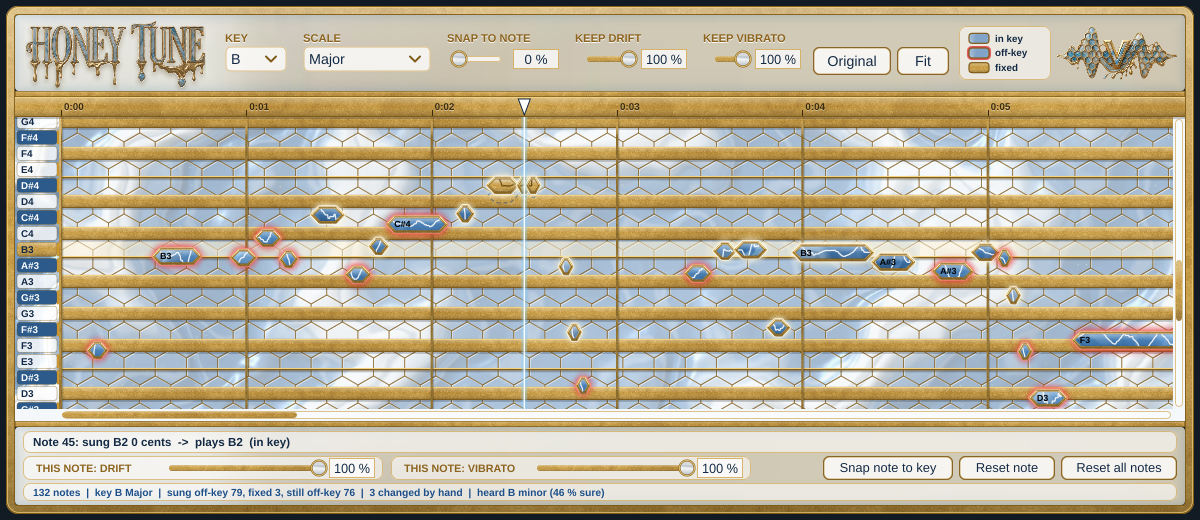
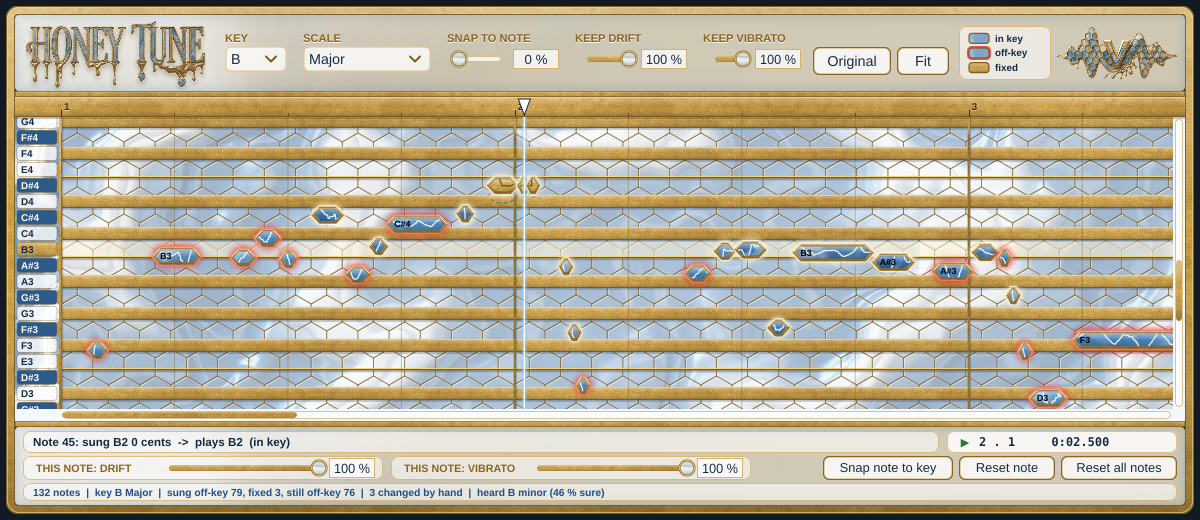
Honey Tune: ruler in the host's bars and beats, synced time readout
Claude-Session: https://claude.ai/code/session_01CehMogZvv8Ni66uUe9tZRt

diff --git a/honeytune/HoneyRoll.cpp b/honeytune/HoneyRoll.cpp
@@ -321,16 +321,37 @@ void HoneyRoll::drawBackground (Graphics& g, Rectangle<float> grid)
                 honeytheme::drawGoldBar (g, { grid.getX(), yOf (m) + static_cast<float> (rowHeight) / 2 - 1.0f, grid.getWidth(), 2.0f }, 0.5f);
         }
 
-        // Second lines: thin raised gold.
-        const double step = pixelsPerSecond > 60 ? 1.0 : pixelsPerSecond > 15 ? 5.0 : 10.0;
-        for (double s = std::ceil (viewStart / step) * step; xOf (s) < grid.getRight(); s += step)
+        // Bar lines (raised gold) and beat lines (fine) from the host's tempo; seconds when it has none.
+        auto raised = [&] (float x, float width)
         {
             Path p;
-            const Rectangle<float> line (xOf (s) - 1.0f, grid.getY(), 2.2f, grid.getHeight());
+            const Rectangle<float> line (x - width * 0.5f, grid.getY(), width, grid.getHeight());
             p.addRectangle (line);
             g.setColour (Colours::black.withAlpha (0.18f));
             g.fillRect (line.translated (1.2f, 0.0f));
             honeytheme::fillGold (g, p, line.withY (0.0f).withHeight (40.0f));
+        };
+        const auto& tl = snap.timeline;
+        if (tl.valid())
+        {
+            const double beatPx = pixelsPerSecond * (tl.lines[1].seconds - tl.lines[0].seconds);
+            for (const auto& l : tl.lines)
+            {
+                const float x = xOf (l.seconds);
+                if (x < grid.getX() - 2.0f || x > grid.getRight() + 2.0f) continue;
+                if (l.beat == 1) raised (x, 2.2f);
+                else if (beatPx > 14.0)
+                {
+                    g.setColour (goldDeep.withAlpha (0.35f));
+                    g.fillRect (x - 0.5f, grid.getY(), 1.0f, grid.getHeight());
+                }
+            }
+        }
+        else
+        {
+            const double step = pixelsPerSecond > 60 ? 1.0 : pixelsPerSecond > 15 ? 5.0 : 10.0;
+            for (double s = std::ceil (viewStart / step) * step; xOf (s) < grid.getRight(); s += step)
+                raised (xOf (s), 2.2f);
         }
     }
 }
@@ -488,19 +509,43 @@ void HoneyRoll::drawRuler (Graphics& g)
     const Rectangle<float> ruler (grid.getX(), 0.0f, grid.getWidth(), kRulerHeight);
     Graphics::ScopedSaveState save (g);
     g.reduceClipRegion (ruler.toNearestInt());
-    const double step = pixelsPerSecond > 60 ? 1.0 : pixelsPerSecond > 15 ? 5.0 : 10.0;
     g.setFont (FontOptions (11.0f, Font::bold));
-    for (double s = std::ceil (viewStart / step) * step; xOf (s) < ruler.getRight(); s += step)
+    auto label = [&g] (float x, const String& text)
     {
-        const float x = xOf (s);
         g.setColour (Colour (0xff3a2a0a));
         g.drawVerticalLine (roundToInt (x), kRulerHeight - 7.0f, kRulerHeight - 1.0f);
-        const int secs = roundToInt (s);
-        const auto label = String (secs / 60) + ":" + String (secs % 60).paddedLeft ('0', 2);
         g.setColour (Colours::white.withAlpha (0.45f));
-        g.drawText (label, Rectangle<float> (x + 3, 4, 40, 14), Justification::centredLeft);
+        g.drawText (text, Rectangle<float> (x + 3, 4, 40, 14), Justification::centredLeft);
         g.setColour (Colour (0xff3a2a0a));
-        g.drawText (label, Rectangle<float> (x + 3, 3, 40, 14), Justification::centredLeft);
+        g.drawText (text, Rectangle<float> (x + 3, 3, 40, 14), Justification::centredLeft);
+    };
+    const auto& tl = snap.timeline;
+    if (tl.valid())
+    {
+        // Bar numbers like the host's ruler (every 2nd / 4th ... bar when they'd crowd), beat ticks between.
+        double barPx = 1.0e9;
+        for (size_t i = 1; i < tl.lines.size(); ++i)
+            if (tl.lines[i].beat == 1) { for (size_t j = i; j-- > 0;) if (tl.lines[j].beat == 1) { barPx = (tl.lines[i].seconds - tl.lines[j].seconds) * pixelsPerSecond; break; } break; }
+        int every = 1;
+        while (barPx * every < 34.0 && every < 64) every *= 2;
+        for (const auto& l : tl.lines)
+        {
+            const float x = xOf (l.seconds);
+            if (x < ruler.getX() - 40.0f || x > ruler.getRight()) continue;
+            if (l.beat == 1 && (l.bar - 1) % every == 0) label (x, String (l.bar));
+            else if (l.beat != 1 && barPx > 60.0)
+            {
+                g.setColour (Colour (0xff3a2a0a).withAlpha (0.6f));
+                g.drawVerticalLine (roundToInt (x), kRulerHeight - 4.0f, kRulerHeight - 1.0f);
+            }
+        }
+        return;
+    }
+    const double step = pixelsPerSecond > 60 ? 1.0 : pixelsPerSecond > 15 ? 5.0 : 10.0;
+    for (double s = std::ceil (viewStart / step) * step; xOf (s) < ruler.getRight(); s += step)
+    {
+        const int secs = roundToInt (s + tl.songOffset);
+        label (xOf (s), String (secs / 60) + ":" + String (secs % 60).paddedLeft ('0', 2));
     }
 }
 

diff --git a/honeytune/HoneyTunePlugin.cpp b/honeytune/HoneyTunePlugin.cpp
@@ -9,6 +9,8 @@
 
 #include "HoneyPanel.h"
 
+#include <ARA_Library/Utilities/ARATimelineConversion.h>
+
 #include <map>
 #include <memory>
 
@@ -566,7 +568,41 @@ private:
     honeyui::Snapshot snapshot() override
     {
         if (dc == nullptr || state == nullptr) return {};
-        return dc->snapshot (state);
+        auto snap = dc->snapshot (state);
+        for (auto* src : dc->sources())
+            if (src->state == state)
+                for (auto* mod : src->getAudioModifications())
+                    if (! mod->getPlaybackRegions().empty())
+                    {
+                        snap.timeline = buildTimeline (mod->getPlaybackRegions().front(), snap.seconds);
+                        return snap;
+                    }
+        return snap;
+    }
+
+    /** The song's bars and beats over this clip, from the host's tempo map and time signatures. */
+    static honeyui::Timeline buildTimeline (ARAPlaybackRegion* region, double clipSeconds)
+    {
+        honeyui::Timeline tl;
+        tl.songOffset = region->getStartInPlaybackTime() - region->getStartInAudioModificationTime();
+        auto* sequence = region->getRegionSequence();
+        auto* context = sequence != nullptr ? sequence->getMusicalContext() : nullptr;
+        if (context == nullptr) return tl;
+        const ARA::PlugIn::HostContentReader<ARA::kARAContentTypeTempoEntries> tempoReader (context);
+        const ARA::PlugIn::HostContentReader<ARA::kARAContentTypeBarSignatures> barReader (context);
+        if (! tempoReader || ! barReader) return tl;
+        const ARA::TempoConverter<decltype (tempoReader)> tempo (tempoReader);
+        const ARA::BarSignaturesConverter<decltype (barReader)> bars (barReader);
+        const auto q0 = tempo.getQuarterForTime (tl.songOffset - 2.0), q1 = tempo.getQuarterForTime (tl.songOffset + clipSeconds + 2.0);
+        for (int b = bars.getBarIndexForQuarter (q0); b <= bars.getBarIndexForQuarter (q1) && tl.lines.size() < 50000; ++b)
+        {
+            const auto barStart = bars.getQuarterForBarIndex (b);
+            const auto sig = bars.getBarSignatureForQuarter (barStart);
+            const double quartersPerBeat = 4.0 / std::max (1, (int) sig.denominator);
+            for (int k = 0; k < std::max (1, (int) sig.numerator); ++k)
+                tl.lines.push_back ({ tempo.getTimeForQuarter (barStart + k * quartersPerBeat) - tl.songOffset, b >= 0 ? b + 1 : b, k + 1 });
+        }
+        return tl;
     }
     Settings getSettings() override { return dc != nullptr ? dc->getSettings() : Settings {}; }
     void setSettings (const Settings& s) override { if (dc != nullptr) dc->setSettings (s); }
@@ -609,8 +645,9 @@ private:
         if (state == nullptr || ! state->alive) { state = nullptr; pickSource ({}); panel.refresh(); return; }
         // Playhead: where the host is playing in this clip (hidden once playback stops).
         const bool playing = Time::getMillisecondCounter() - state->playStamp.load() < 250;
-        panel.roll.setPlayhead (playing ? state->playPosition.load() / std::max (1.0, state->sampleRate) : -1.0);
-        if (state->status != 2 && ++slowTicks % 15 == 0) panel.refresh();
+        panel.setPlayhead (playing ? state->playPosition.load() / std::max (1.0, state->sampleRate) : -1.0);
+        // Now and then: the status while listening, and the bars / beats if the song's tempo changed.
+        if (++slowTicks % (state->status != 2 ? 15 : 45) == 0 && ! panel.roll.isMouseButtonDown()) panel.refresh();
     }
 
     HoneyDocumentController* dc = nullptr;

diff --git a/honeytune/HoneyPanel.cpp b/honeytune/HoneyPanel.cpp
@@ -150,6 +150,16 @@ void HoneyPanel::refresh()
     repaint();
 }
 
+void HoneyPanel::setPlayhead (double seconds)
+{
+    roll.setPlayhead (seconds);
+    if (seconds >= 0.0 && std::abs (seconds - lastPosition) > 0.0005)
+    {
+        lastPosition = seconds;
+        repaint (readoutArea.toNearestInt());
+    }
+}
+
 void HoneyPanel::applySettings()
 {
     if (model == nullptr) return;
@@ -258,6 +268,19 @@ void HoneyPanel::paint (Graphics& g)
     if (const auto img = logo(); img.isValid())
         g.drawImage (img, logoArea, RectanglePlacement::centred);
 
+    // Time readout (bars . beats like the host, and the song time), synced to playback.
+    {
+        const bool playing = roll.getPlayhead() >= 0.0;
+        drawGlass (g, readoutArea, 7.0f, 0.85f);
+        g.setColour (playing ? Colour (0xff1e7d32) : Colour (0xff8d641f));
+        g.setFont (FontOptions (13.0f, Font::bold));
+        g.drawText (playing ? String (CharPointer_UTF8 ("\xe2\x96\xb6")) : String (CharPointer_UTF8 ("\xe2\x96\xa0")),
+                    readoutArea.withWidth (24.0f).translated (6.0f, 0.0f), Justification::centred);
+        g.setColour (ink);
+        g.setFont (FontOptions (Font::getDefaultMonospacedFontName(), 14.0f, Font::bold));
+        g.drawText (roll.getSnapshot().timeline.describe (lastPosition), readoutArea.withTrimmedLeft (32.0f), Justification::centredLeft);
+    }
+
     // Bottom text: the selected note, then the status line.
     g.setColour (ink);
     g.setFont (FontOptions (13.0f, Font::bold));
@@ -347,6 +370,8 @@ void HoneyPanel::resized()
     // Bottom: note info line, then per-note sliders and buttons, then the status line.
     auto bottom = bottomBar.reduced (8.0f, 4.0f);
     noteInfoArea = bottom.removeFromTop (22.0f);
+    readoutArea = noteInfoArea.removeFromRight (230.0f);
+    noteInfoArea.removeFromRight (8.0f);
     statusArea = bottom.removeFromBottom (18.0f);
     cards.push_back (noteInfoArea);
     cards.push_back (statusArea);

diff --git a/honeytune/HoneyView.h b/honeytune/HoneyView.h
@@ -3,6 +3,7 @@
 #include "vox/HoneyTune.h"
 
 #include <cmath>
+#include <cstdio>
 #include <memory>
 #include <string>
 #include <vector>
@@ -74,9 +75,36 @@ struct NoteView
     bool fixed = false;        // was off-key, now lands on a note of the key
 };
 
+/** The host's bars and beats over the clip (from the song's tempo map and time signatures), in clip
+    seconds. Empty when the host doesn't share them: the editor then shows seconds. */
+struct Timeline
+{
+    struct Line { double seconds; int bar; int beat; };   // bar from 1, beat from 1 (1 = the bar line)
+    std::vector<Line> lines;
+    double songOffset = 0.0;   // song time = clip time + songOffset
+
+    bool valid() const { return lines.size() >= 2; }
+
+    /** "Bar 5 . 2" style position for a clip time, plus the song time. */
+    std::string describe (double clipSeconds) const
+    {
+        const double song = clipSeconds + songOffset;
+        const int ms = static_cast<int> (std::round (std::max (0.0, song) * 1000.0));
+        char time[32];
+        std::snprintf (time, sizeof time, "%d:%02d.%03d", ms / 60000, (ms / 1000) % 60, ms % 1000);
+        if (! valid()) return time;
+        const Line* at = &lines.front();
+        for (const auto& l : lines) { if (l.seconds > clipSeconds) break; at = &l; }
+        char out[64];
+        std::snprintf (out, sizeof out, "%d . %d     %s", at->bar, at->beat, time);
+        return out;
+    }
+};
+
 /** One clip, ready to draw. */
 struct Snapshot
 {
+    Timeline timeline;
     int status = 0;            // 0 waiting, 1 listening, 2 ready, 3 couldn't read
     std::string name;
     std::shared_ptr<const vox::honey::Track> track;

diff --git a/honeytune/HoneyPanel.h b/honeytune/HoneyPanel.h
@@ -14,6 +14,8 @@ public:
     void setModel (honeyui::Model* m);
     /** Call when the clip's notes or render changed (message thread). */
     void refresh();
+    /** Playback position in the clip (seconds, negative = stopped): moves the playhead and the time readout. */
+    void setPlayhead (double seconds);
 
     void paint (juce::Graphics&) override;
     void paintOverChildren (juce::Graphics&) override;
@@ -30,7 +32,8 @@ private:
     void drawDrips (juce::Graphics&, juce::Rectangle<float> frame);
 
     std::unique_ptr<honeytheme::Look> look;
-    juce::Rectangle<float> topBar, bottomBar, titleArea, legendArea, logoArea, noteInfoArea, statusArea;
+    juce::Rectangle<float> topBar, bottomBar, titleArea, legendArea, logoArea, noteInfoArea, statusArea, readoutArea;
+    double lastPosition = 0.0;
     std::vector<juce::Rectangle<float>> cards;
     static constexpr float kFrame = 9.0f, kSeparator = 6.0f, kDripRoom = 0.0f;
     honeyui::Model* model = nullptr;

diff --git a/honeytune/preview/HoneyPreview.cpp b/honeytune/preview/HoneyPreview.cpp
@@ -21,6 +21,10 @@ struct MemoryModel final : honeyui::Model
     {
         auto s = honeyui::makeSnapshot (track, notes, edits, guess, settings);
         s.status = 2;
+        if (const char* bpm = std::getenv ("HONEY_BPM"))   // a fake host tempo map (4/4)
+            for (int b = 0; b < 400; ++b)
+                for (int k = 0; k < 4; ++k)
+                    s.timeline.lines.push_back ({ (b * 4 + k) * 60.0 / std::atof (bpm), b + 1, k + 1 });
         return s;
     }
     honeyui::Settings getSettings() override { return settings; }
@@ -73,7 +77,7 @@ int main (int argc, char** argv)
     }
     panel.refresh();
     panel.roll.setSelected (static_cast<int> (m.notes.size() / 3));
-    panel.roll.setPlayhead (2.5);
+    panel.setPlayhead (2.5);
 
     if (std::getenv ("HONEY_DEBUG"))
         for (auto* c : panel.getChildren())

diff --git a/honeytune/HoneyRoll.h b/honeytune/HoneyRoll.h
@@ -35,6 +35,7 @@ public:
 
     /** Where playback is in the clip (seconds); negative = stopped. The view follows it. */
     void setPlayhead (double seconds);
+    double getPlayhead() const { return playhead; }
 
     /** Fit the whole clip and its notes into view. */
     void fitAll();

diff --git a/claude/RESUME-HERE.md b/claude/RESUME-HERE.md
@@ -180,7 +180,10 @@ playPosition/playStamp per source (audio thread atomics), editor timer 30 Hz -> 
 Round 7: black note text; RED glow = will SOUND off-key (NoteView.off from target; fixed = wasOff && !off; dragged
 notes judged where they land); Original A/B button (controller playOriginal -> SourceState.playOriginal, renderer
 plays `recorded` copy; also plays the recording instead of silence while analysing); vertical fit centres on the
-duration-weighted median pitch. Chrome blocks the unsigned zip as dangerous: user must Keep (code signing later). drips de-haloed and drawn BEFORE the frame with tops tucked under it.
+duration-weighted median pitch. Round 8: ruler shows the HOST's bars/beats (editor buildTimeline: region songOffset + ARA TempoConverter /
+BarSignaturesConverter -> honeyui::Timeline lines in clip seconds; seconds fallback), bar lines raised gold, beat
+lines fine; time readout card (bar . beat + song time, play/stop icon) in the bottom bar, synced via panel.setPlayhead;
+refresh every 1.5 s for tempo changes. Preview: HONEY_BPM fakes a tempo map. Chrome blocks the unsigned zip as dangerous: user must Keep (code signing later). drips de-haloed and drawn BEFORE the frame with tops tucked under it.
 
 ## Honey Tune (decided 2026-10-05; build AFTER the user confirms v0.2 works in Cubase)
 User's name for our Melodyne-style note editor: "Honey Tune". Each note = a gold-rimmed blue-marble
